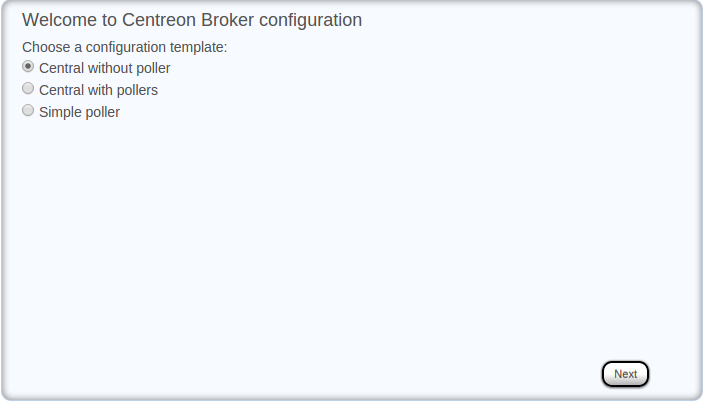
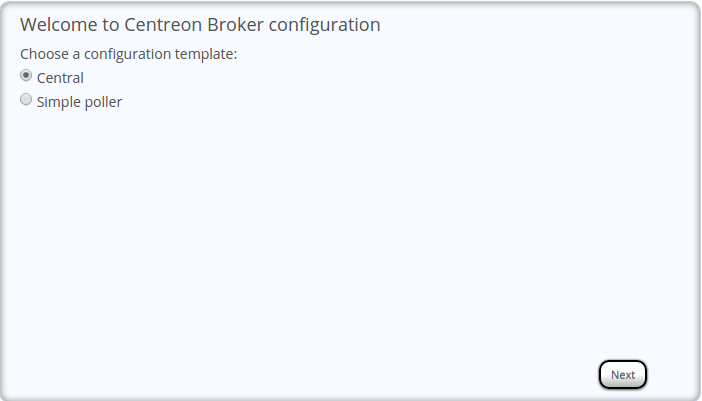
update broker wizzard documentation

diff --git a/doc/en/configuration_guide/10poller/03wizards.rst b/doc/en/configuration_guide/10poller/03wizards.rst
@@ -4,38 +4,19 @@
 Centreon Broker configuration via wizard
 ========================================
 
-You can create configurations of Centreon Broker via the wizard:
+You can create configurations of Centreon Broker via the wizard, to do this:
+#. Go to the menu **Configuration ==> Pollers ==> Centreon-Broker ==> Configuration**
+#. Click on Add with wizard
 
-.. image:: /images/user/configuration/10poller/centreon_broker_add_wizard.png
-   :align: center
 
-Three choices are available:
+Two choices are available:
 
 .. image:: /images/user/configuration/10poller/centreon_broker_wizard.png
    :align: center
 
-***********************************************
-Configuration with an standalone central server
-***********************************************
-
-.. image:: /images/user/configuration/10poller/centreon_broker_wizard_01_schema.png
-   :align: center
-   :alt: Central only schema
-
-.. note::
-    Standalone Centreon server
-
-.. image:: /images/user/configuration/10poller/centreon_broker_wizard_01_step01.png
-   :align: center
-
-#. Enter a name for the configuration
-
-.. image:: /images/user/configuration/10poller/centreon_broker_wizard_02_step02.png
-   :align: center
-
-**************************************************************
-Configuration of central server for a distributed architecture
-**************************************************************
+*******************************
+Configuration of central server
+*******************************
 
 .. image:: /images/user/configuration/10poller/centreon_broker_wizard_02_schema.png
    :align: center
@@ -44,9 +25,7 @@ Configuration of central server for a distributed architecture
 .. note::
    Distributed monitoring schema
 
-.. image:: /images/user/configuration/10poller/centreon_broker_wizard_02_step01.png
-   :align: center
-
+#. Choose **Central**
 #. Enter a name for the configuration
 
 .. image:: /images/user/configuration/10poller/centreon_broker_wizard_02_step02.png
@@ -66,9 +45,7 @@ Configuration of a poller for a distributed architecture
 .. note::
    :alt: Schema distributed monitoring
 
-.. image:: /images/user/configuration/10poller/centreon_broker_wizard_03_step01.png
-   :align: center
-
+#. Choose **Simple poller**
 #. Enter a name for the configuration
 #. Select  a poller
 #. Enter the IP address or the **FQDN** DNS name of the central server
